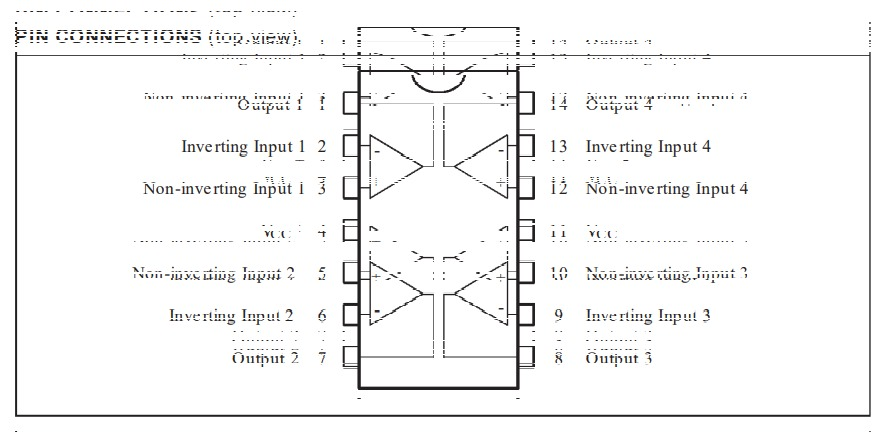
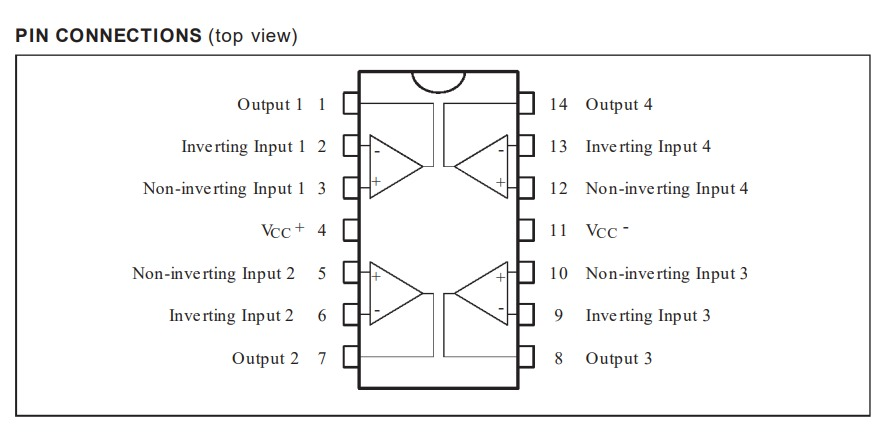
added pinout of ICs

diff --git a/resources/README.md b/resources/README.md
@@ -7,12 +7,12 @@ This section contains useful resources, including datasheets and manuals for the
 - **LM324 1GHz Opamp**: [LM324 Datasheet](./LM324.PDF)
   <br>
   <br>
-  <img src="..\public\asssets\LM324pinout.jpg" alt="ESP32 Pinout" width="400"/>
+  <img src="..\public\asssets\LM324pinout.jpg" alt="ESP32 Pinout" width="800"/>
 
 - **IRFZ44N n-channel mosfet**: [IRFZ444N Datasheet](./IRFZ44N.PDF)
   <br>
   <br>
-  <img src="..\public\asssets\IRFZ44Npinout.jpg" alt="ESP32 Pinout" width="400"/>
+  <img src="..\public\asssets\IRFZ44Npinout.jpg" alt="ESP32 Pinout" width="800"/>
 
 - **BMX160 Sensor Datasheet**: [BMX160 Sensor Datasheet](./BMX160datasheet.pdf)
 
@@ -21,13 +21,13 @@ This section contains useful resources, including datasheets and manuals for the
 - **ESP32**:  [offical espressif ESP32 Manual](https://www.espressif.com/en/products/devkits/esp32-devkitc)
   <br>
   <br>
-  <img src="..\public\asssets\esp32_devkitC_v4_pinlayout.png" alt="ESP32 Pinout" width="600"/>
+  <img src="..\public\asssets\esp32_devkitC_v4_pinlayout.png" alt="ESP32 Pinout" width="1000"/>
 
 
 - **ESP32-C3**:  [offical XiaoESP32C3 Manual](https://wiki.seeedstudio.com/XIAO_ESP32C3_Getting_Started/)
   <br>
   <br>
-  <img src="..\public\asssets\esp32c3_xiao_pinlayout.png" alt="ESP32-C3 Pinout" width="600"/>
+  <img src="..\public\asssets\esp32c3_xiao_pinlayout.png" alt="ESP32-C3 Pinout" width="800"/>
 
 
 - **Oscilloscope Manual**: [Oscilloscope User Manual](./sds5032ev_user_manual.pdf)
